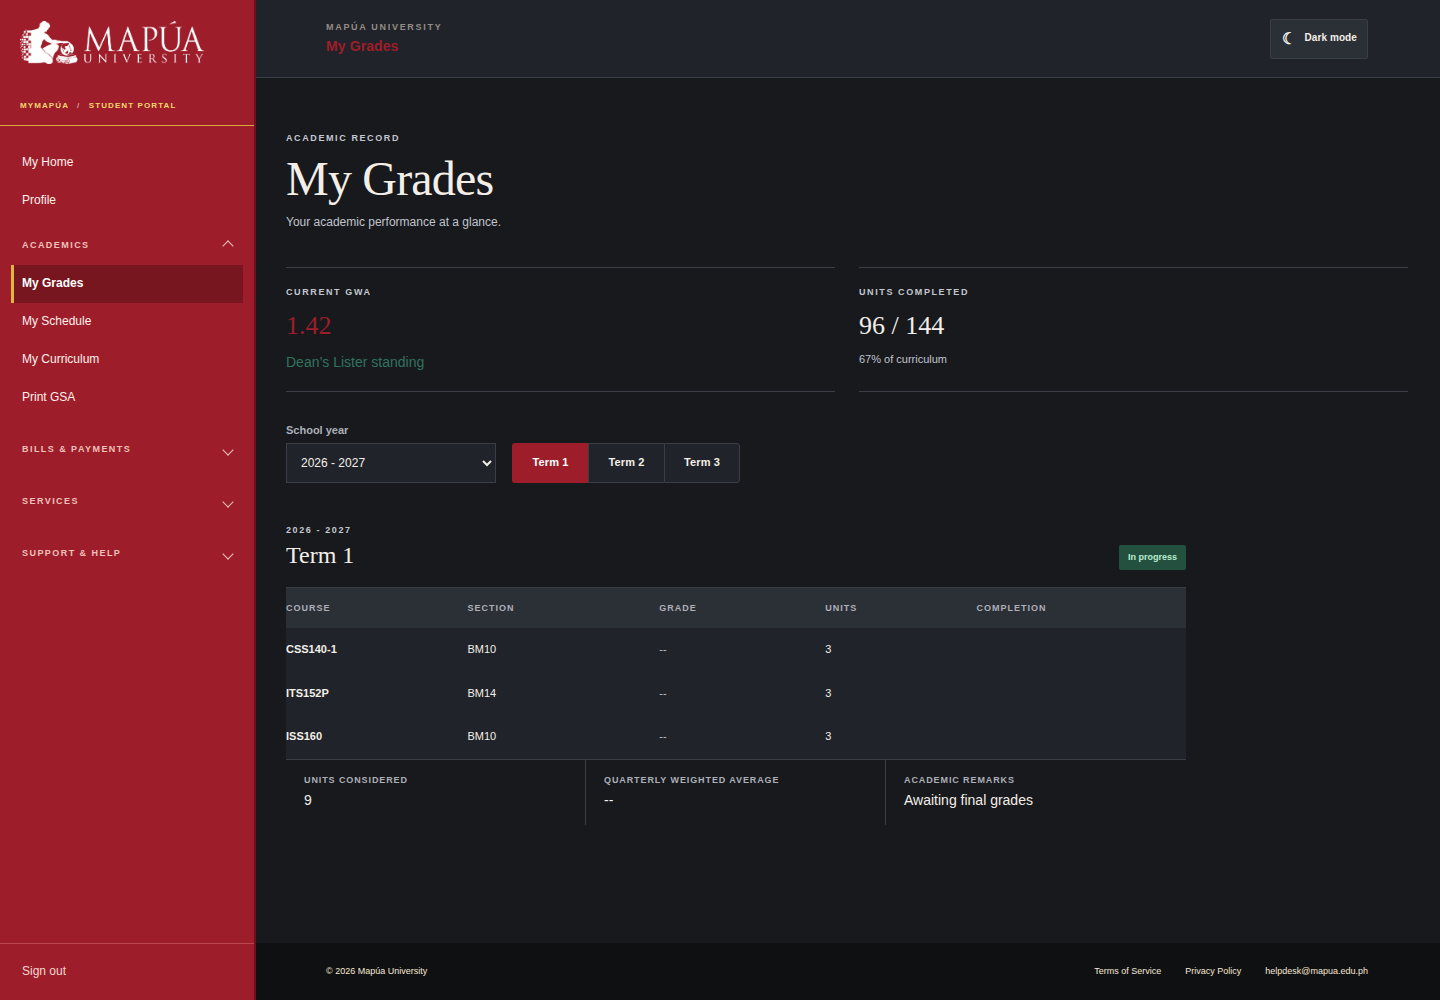
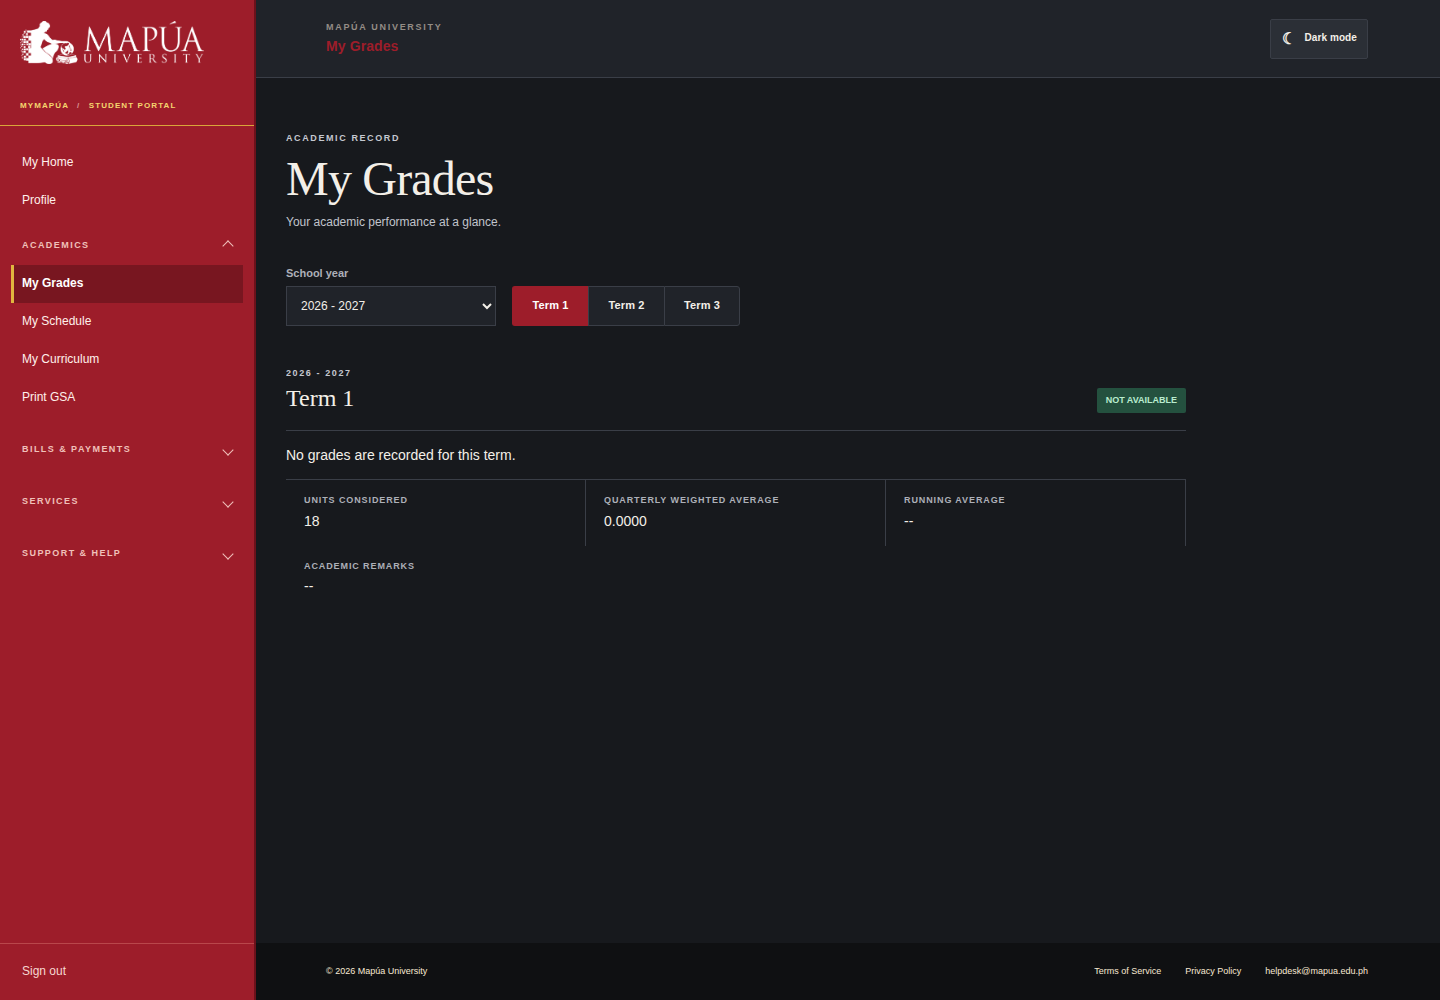
correct curriculum and grade values

diff --git a/script.js b/script.js
@@ -110,18 +110,32 @@ function curriculumTermTable(term, rows, totals, year = 3) { return `<section cl
 function coreCourseTerms() { return `${curriculumTermTable('Term 1', [['CSS140-1','Artificial Intelligence','4.5','-','3','CSS130-1'],['ISS160','Project Management','4.5','-','3','CSS123P'],['ITS142P','Human Computer Interaction 2','3','4.5','3','ITS141-1'],['ITS152P','Systems Integration and Architecture 2','3','4.5','3','ITS151P'],['ITS165-1','Information Security and Assurance 1','4.5','-','3','CSS131P, ITS161-1L']], ['19.5','9','15'])}${curriculumTermTable('Term 2', [['ITS120P','Application Development and Emerging Technologies','3','4.5','3','CSS123P'],['ITS150P','Operating Systems','3','4.5','3','ITS112P'],['ITS166P','Information Security and Assurance 2','3','4.5','3','ITS165-1'],['RZL110','The Life and Works of Rizal','4.5','-','3','']], ['13.5','13.5','12'])}${curriculumTermTable('Term 3', [['CSS153P','Software Quality','3','4.5','3','ITS142P'],['IE103-2','Technopreneurship 101','4.5','-','3',''],['ITS109-1','Research Methods in Information Technology','4.5','-','3','ITS152P'],['ITS153P','Systems Administration and Maintenance','3','4.5','3','ITS152P, ITS163-1L']], ['15','9','12'])}${curriculumTermTable('Term 4', [['ITS105-1','Social and Professional Issues','4.5','-','3','CSS123P, GED107'],['ITS199-1R','Practicum 1','4.5','-','3',''],['ITS200-01','Thesis 1','1.5','-','1','ITS109-1']], ['10.5','0','7'])}`; }
 const gradeHistory = {
   '2026 - 2027': {
-    'Term 1': [['CSS140-1', 'BM10', '--', '3'], ['ITS152P', 'BM14', '--', '3'], ['ISS160', 'BM10', '--', '3']],
+    'Term 1': [],
   },
   '2025 - 2026': {
     'Term 1': [['CSS123P', 'BM1', '1.75', '3'], ['CSS131-1', 'BM1', '2.00', '3'], ['GED108', 'AM12', '1.25', '3'], ['ISS120', 'BM1', '1.50', '3'], ['ITS162-1L', 'AM2', '2.25', '2'], ['MATH170', 'EM01', '3.00', '3'], ['PCC150', 'BM6', '1.25', '3']],
     'Term 2': [['DSS110', 'BM16', 'P', '2'], ['ENV121', 'AM25', '1.50', '3'], ['GED102', 'BM11', '1.50', '3'], ['GED110', 'BM2', '1.25', '3'], ['GED121', 'BM10', '1.50', '3'], ['ITS112P', 'BM13', '1.25', '3'], ['ITS163-1', 'BM13', '2.00', '2'], ['MATH181', 'BM4', '2.75', '3']],
-    'Term 3': [['CSS123P', 'BM1', '1.75', '3'], ['CSS131-1', 'BM1', '2.00', '3'], ['GED108', 'AM12', '1.25', '3'], ['ISS120', 'BM1', '1.50', '3'], ['ITS162-1L', 'AM2', '2.25', '2'], ['MATH170', 'EM01', '3.00', '3'], ['PCC150', 'BM6', '1.25', '3']],
+    'Term 3': [['FW04-2', 'BM16', 'P', '2'], ['ITS122P', 'BM11', '1.00', '3'], ['ITS132P', 'BM13', '1.00', '3'], ['ITS141-1', 'BM12', '1.00', '3'], ['ITS151P', 'BM10', '2.75', '3'], ['ITS183-01', 'BM13', '2.25', '3'], ['MATH174', 'BM9', '3.00', '3']],
   },
 };
+const gradeSummary = {
+  '2026 - 2027': { 'Term 1': { units: '18', quarterly: '0.0000', running: '', status: 'NOT AVAILABLE', remarks: '' } },
+  '2025 - 2026': { 'Term 3': { units: '18', quarterly: '1.8333', running: '2.0896', status: 'OK', remarks: 'OK' } },
+};
 function gradeTable(rows) { return `<table class="grade-history-table"><thead><tr><th>Course</th><th>Section</th><th>Grade</th><th>Units</th><th>Completion</th></tr></thead><tbody>${rows.map((row) => `<tr><td>${row[0]}</td><td>${row[1]}</td><td class="${row[2] === '--' ? 'pending' : ''}">${row[2]}</td><td>${row[3]}</td><td></td></tr>`).join('')}</tbody></table>`; }
-function gradeTermView(year, term) { const rows = gradeHistory[year]?.[term] || []; return `<div class="table-card grade-history-card"><div class="table-title"><div><span class="mini-label">${year}</span><h2>${term}</h2></div><span class="status-pill${rows.some((row) => row[2] === '--') ? '' : ' warm'}">${rows.some((row) => row[2] === '--') ? 'In progress' : 'Completed'}</span></div>${rows.length ? gradeTable(rows) : '<p class="history-empty">No grades are recorded for this term.</p>'}<div class="grade-summary"><div><strong>Units considered</strong><span>${rows.reduce((sum, row) => sum + Number(row[3] || 0), 0)}</span></div><div><strong>Quarterly weighted average</strong><span>${rows.some((row) => row[2] === '--') ? '--' : '1.64'}</span></div><div><strong>Academic remarks</strong><span>${rows.some((row) => row[2] === '--') ? 'Awaiting final grades' : 'Obtained a quarterly weighted average of 3.50 or better'}</span></div></div></div>`; }
+function gradeTermView(year, term) {
+  const rows = gradeHistory[year]?.[term] || [];
+  const summary = gradeSummary[year]?.[term] || {
+    units: String(rows.reduce((sum, row) => sum + (Number.isFinite(Number(row[2])) ? Number(row[3] || 0) : 0), 0)),
+    quarterly: rows.length ? '1.64' : '0.0000',
+    running: '',
+    status: rows.length ? 'OK' : 'NOT AVAILABLE',
+    remarks: rows.length ? 'OK' : '',
+  };
+  return `<div class="table-card grade-history-card"><div class="table-title"><div><span class="mini-label">${year}</span><h2>${term}</h2></div><span class="status-pill${summary.status === 'OK' ? ' warm' : ''}">${summary.status}</span></div>${rows.length ? gradeTable(rows) : '<p class="history-empty">No grades are recorded for this term.</p>'}<div class="grade-summary"><div><strong>Units considered</strong><span>${summary.units}</span></div><div><strong>Quarterly weighted average</strong><span>${summary.quarterly}</span></div><div><strong>Running average</strong><span>${summary.running || '--'}</span></div><div><strong>Academic remarks</strong><span>${summary.remarks || '--'}</span></div></div></div>`;
+}
 function gradeHistoryView() { return `<div class="history-controls"><label>School year<select class="grade-year-select">${Object.keys(gradeHistory).map((year) => `<option>${year}</option>`).join('')}</select></label><div class="history-tabs grade-term-tabs" role="tablist" aria-label="Grade term"><button class="active" type="button" data-term="Term 1">Term 1</button><button type="button" data-term="Term 2">Term 2</button><button type="button" data-term="Term 3">Term 3</button></div></div><div class="grade-history-panel">${gradeTermView('2026 - 2027', 'Term 1')}</div>`; }
-pageData['#grades'][2] = `<div class="data-grid"><div class="data-card grade-highlight"><span class="mini-label">CURRENT GWA</span><strong>1.42</strong><span class="positive">Dean’s Lister standing</span></div><div class="data-card"><span class="mini-label">UNITS COMPLETED</span><strong>96 / 144</strong><span class="muted">67% of curriculum</span></div></div>${gradeHistoryView()}`;
+pageData['#grades'][2] = gradeHistoryView();
 const previousCurriculum = {
   '2025 - 2026': [
     { rows: [['CSS121P', 'Computer Programming 1', '2.3', '4.5', '3', ''], ['FW01-2', 'Physical Activities Toward Health and Fitness 1', '3', '-', '2', ''], ['GED101', 'Understanding the Self', '4.5', '-', '3', ''], ['GED103', 'Readings in Philippine History', '4.5', '-', '3', ''], ['ITS100', 'Introduction to Information Technology', '4.5', '-', '3', ''], ['MATH165', 'College Algebra with Analytic Geometry', '4.5', '-', '3', '']], totals: ['23.3', '9', '19'] },
@@ -140,7 +154,7 @@ function curriculumYearView(year, category = 'Core Courses') {
   const terms = previousCurriculum[year];
   return terms ? terms.map((term, index) => curriculumTermTable(`Term ${index + 1}`, term.rows, term.totals, year === '2025 - 2026' ? 1 : 2)).join('') : coreCourseTerms();
 }
-pageData['#curriculum'][2] = `<div class="curriculum-summary"><div><span class="mini-label">PROGRAM</span><strong>Information Technology</strong></div><div><span class="mini-label">YEAR LEVEL</span><strong>3</strong></div><div><span class="mini-label">CURRICULUM YEAR</span><strong>2024</strong></div><div><span class="mini-label">SPECIALIZATION</span><strong>Cybersecurity</strong></div><div class="units-summary"><span class="mini-label">UNITS</span><strong>187</strong><span>Required</span><strong>117</strong><span>Credited</span><strong>70</strong><span>Left</span></div></div><div class="curriculum-toolbar"><div class="curriculum-tabs" role="tablist" aria-label="Curriculum category"><button class="active" type="button" role="tab" aria-selected="true">Core Courses</button><button type="button" role="tab" aria-selected="false">Electives</button><button type="button" role="tab" aria-selected="false">Specialization</button></div><div class="curriculum-legend"><span>Taken</span><span>In Current Load</span><span>Not Yet Taken</span><span>Incomplete</span><span>Exempted / Credited</span></div></div><div class="history-controls curriculum-history-controls"><label>Academic year<select class="curriculum-year-select"><option>2026 - 2027</option><option>2025 - 2026</option><option>2024 - 2025</option></select></label><span class="history-note">Current curriculum uses four terms. Previous years retain their original three-term structure.</span></div><div class="curriculum-panel" id="curriculumPanel">${coreCourseTerms()}</div>`;
+pageData['#curriculum'][2] = `<div class="curriculum-summary"><div><span class="mini-label">PROGRAM</span><strong>IT</strong></div><div><span class="mini-label">YEAR LEVEL</span><strong>3</strong></div><div><span class="mini-label">CURRICULUM YEAR</span><strong>2024</strong></div><div><span class="mini-label">SPECIALIZATION</span><strong>CYBERSECURITY</strong></div><div class="units-summary"><span class="mini-label">UNITS</span><strong>187</strong><span>Required</span><strong>117</strong><span>Credited</span><strong>117</strong><span>Passed</span><strong>70</strong><span>Left</span></div></div><div class="curriculum-toolbar"><div class="curriculum-tabs" role="tablist" aria-label="Curriculum category"><button class="active" type="button" role="tab" aria-selected="true">Core Courses</button><button type="button" role="tab" aria-selected="false">Electives</button><button type="button" role="tab" aria-selected="false">Specialization</button></div><div class="curriculum-legend"><span>Taken</span><span>In Current Load</span><span>Not Yet Taken</span><span>Incomplete</span><span>Exempted / Credited</span></div></div><div class="history-controls curriculum-history-controls"><label>Academic year<select class="curriculum-year-select"><option>2026 - 2027</option><option>2025 - 2026</option><option>2024 - 2025</option></select></label><span class="history-note">Current curriculum uses four terms. Previous years retain their original three-term structure.</span></div><div class="curriculum-panel" id="curriculumPanel">${coreCourseTerms()}</div>`;
 const scheduleRows = [
   ['07:30 AM<br />09:00 AM', [null, null, null, null, { code: 'ITS152P', section: 'BM14', room: 'MPO409' }, null, { code: 'ISS160', section: 'BM10', room: 'MPO604' }]],
   ['09:00 AM<br />10:30 AM', [null, null, null, null, { code: 'ITS152P', section: 'BM14', room: 'ONLINE' }, null, { code: 'ISS160', section: 'BM10', room: 'MPO604' }]],

diff --git a/styles.css b/styles.css
@@ -1646,6 +1646,16 @@ html[data-theme="dark"] .content .announcement-item h3 {
 	text-align: center;
 }
 
+.content .grade-summary {
+	grid-template-columns: repeat(4, minmax(0, 1fr)) !important;
+}
+
+@media (max-width: 800px) {
+	.content .grade-summary {
+		grid-template-columns: minmax(0, 1fr) !important;
+	}
+}
+
 @media (min-width: 801px) {
 	.content .contact-form .phone-grid label:nth-child(1) input,
 	.content .contact-form .phone-grid label:nth-child(2) input {
